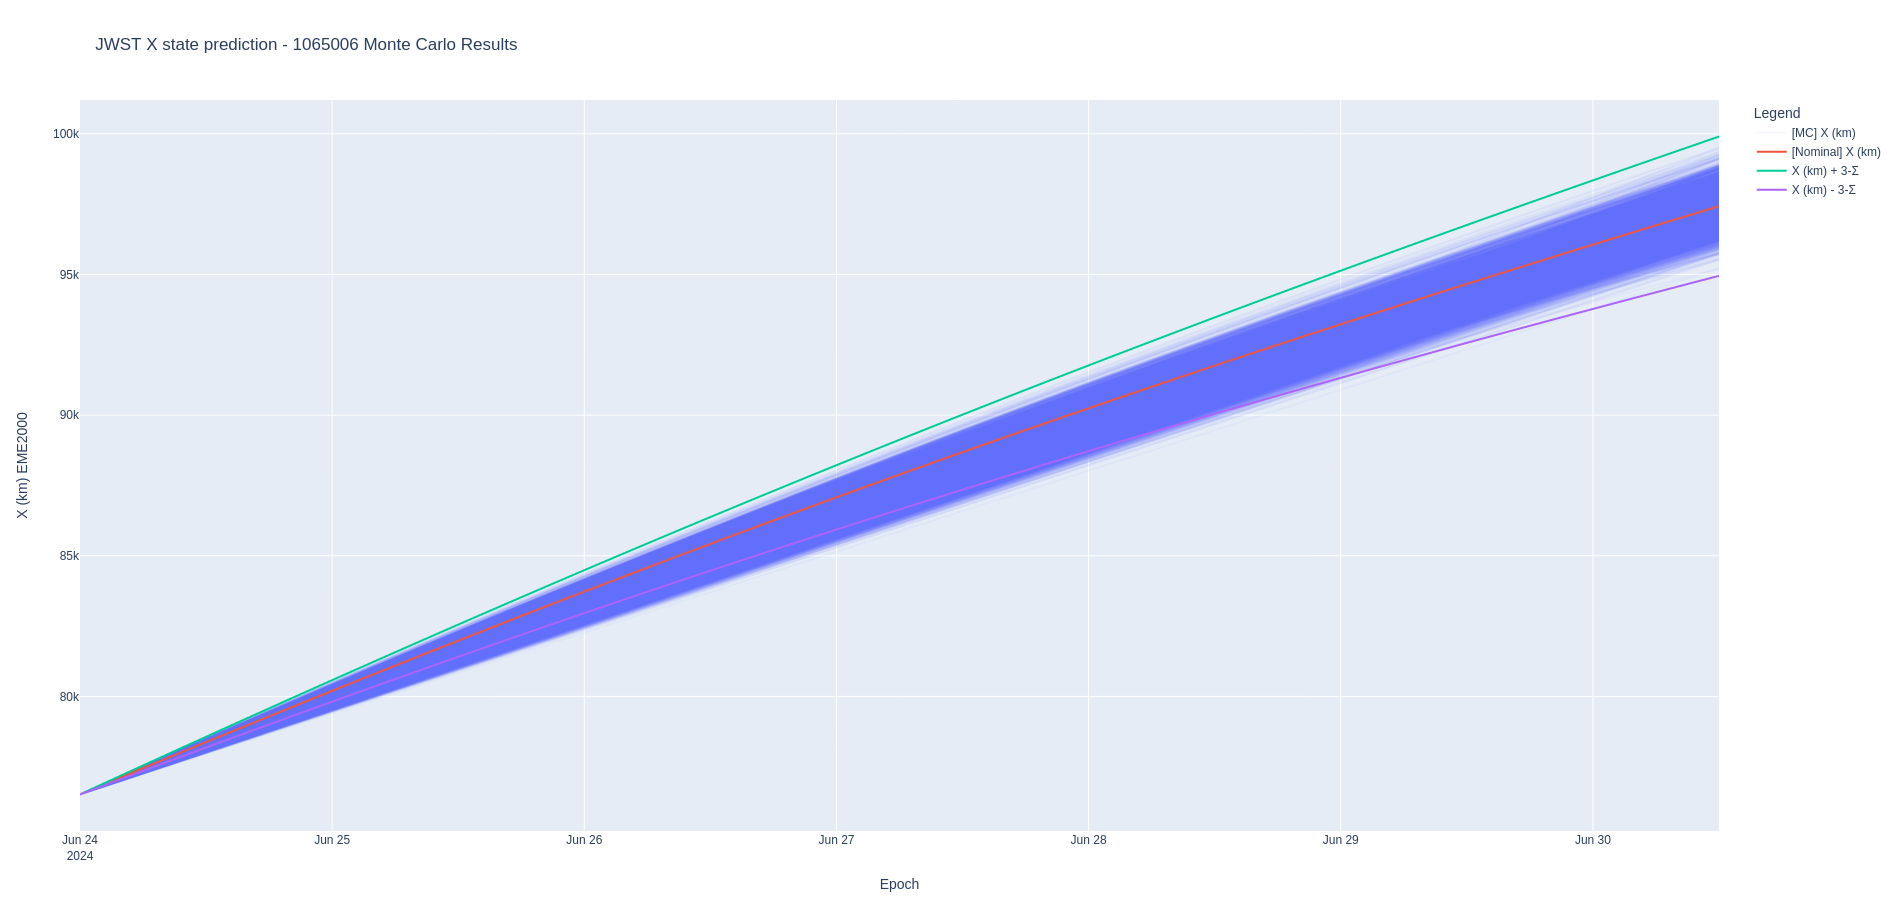
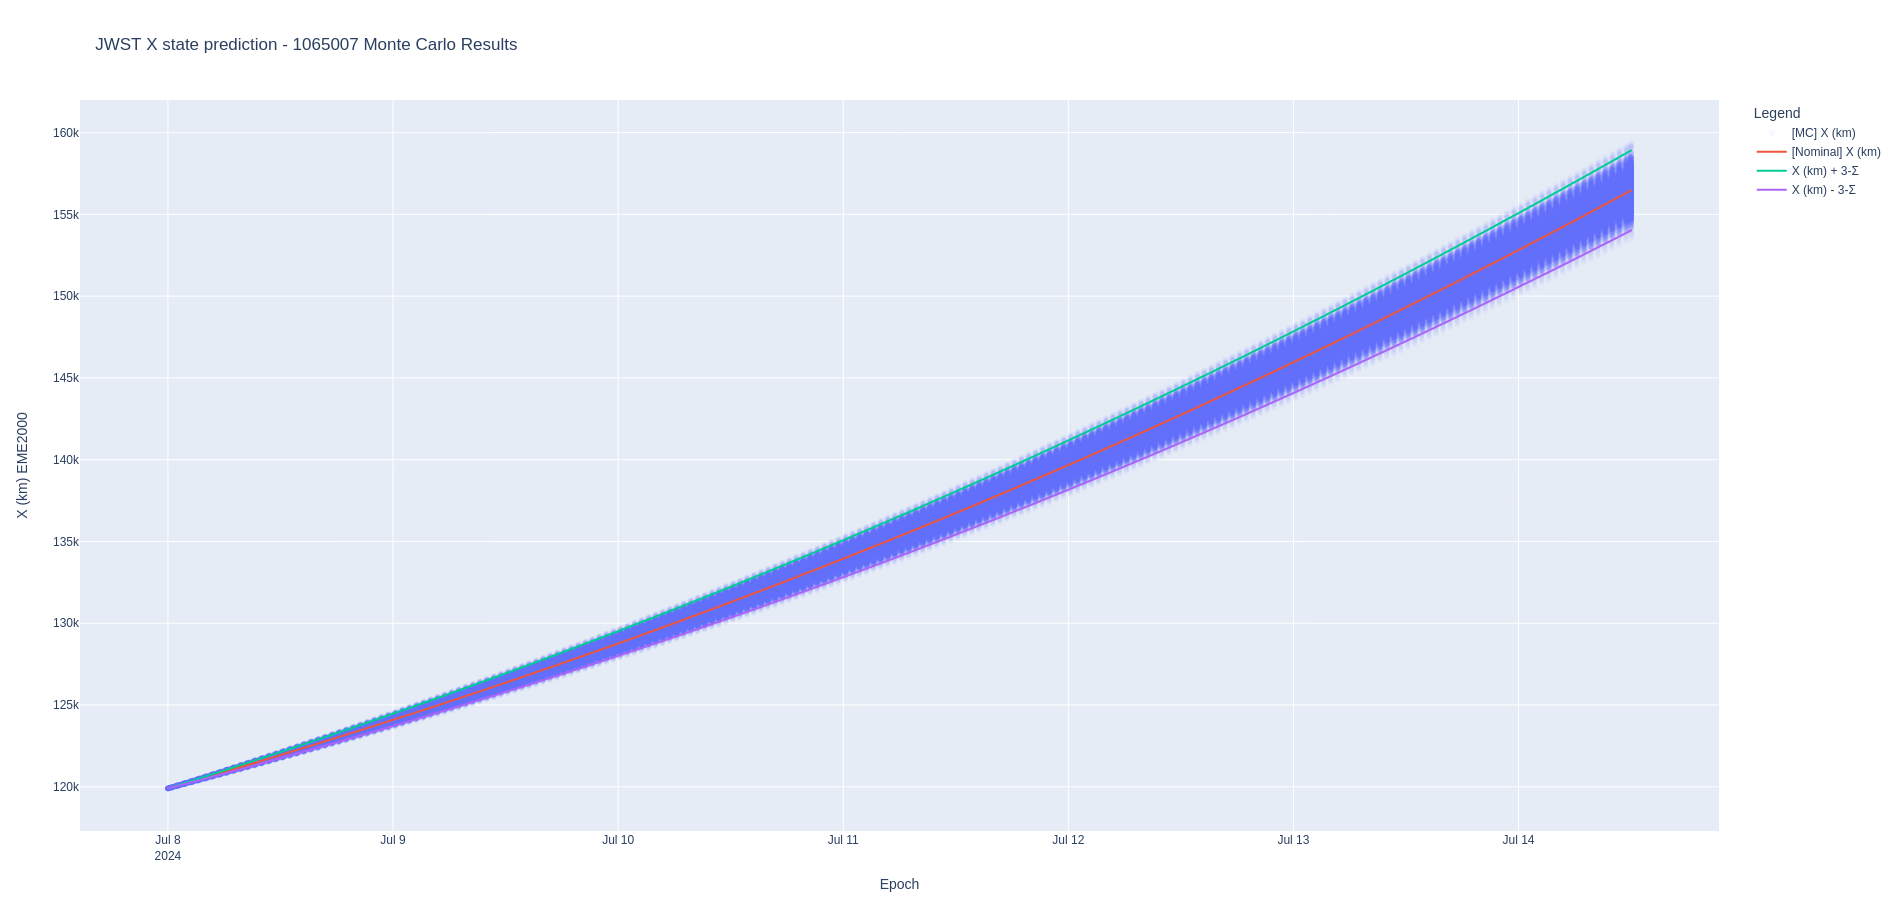
Fix plotting of the JWST example

diff --git a/examples/02_jwst_covar_monte_carlo/plotting.py b/examples/02_jwst_covar_monte_carlo/plotting.py
@@ -3,11 +3,11 @@ import plotly.graph_objs as go
 
 if __name__ == "__main__":
     df_mc = pl.read_parquet("./02_jwst_monte_carlo.parquet")
-    df_mc = df_mc.with_columns(pl.col("Epoch (UTC)").str.to_datetime("%Y-%m-%dT%H:%M:%S%.f"))
+    df_mc = df_mc.with_columns(pl.col("Epoch (UTC)").str.to_datetime("%Y-%m-%dT%H:%M:%S%.f")).sort("Epoch (UTC)", descending=False)
     print(df_mc.describe())
 
     df_covar = pl.read_parquet("./02_jwst_covar_map.parquet")
-    df_covar = df_covar.with_columns(pl.col("Epoch (UTC)").str.to_datetime("%Y-%m-%dT%H:%M:%S%.f"))
+    df_covar = df_covar.with_columns(pl.col("Epoch (UTC)").str.to_datetime("%Y-%m-%dT%H:%M:%S%.f")).sort("Epoch (UTC)", descending=False)
     print(df_covar.describe())
 
     # Build the position plots
@@ -18,7 +18,7 @@ if __name__ == "__main__":
                 go.Scattergl(
                     x=df_mc["Epoch (UTC)"],
                     y=df_mc[col],
-                    mode="lines",
+                    mode="markers",
                     opacity=0.05,
                     showlegend=True,
                     name=f"[MC] {coord} (km)",
@@ -63,7 +63,7 @@ if __name__ == "__main__":
                 go.Scattergl(
                     x=df_mc["Epoch (UTC)"],
                     y=df_mc[col],
-                    mode="lines",
+                    mode="markers",
                     opacity=0.05,
                     showlegend=True,
                     name=f"[MC] {coord} (km/s)",
@@ -156,7 +156,7 @@ if __name__ == "__main__":
                 go.Scattergl(
                     x=df_mc["Epoch (UTC)"],
                     y=df_mc[col],
-                    mode="lines",
+                    mode="markers",
                     opacity=0.05,
                     showlegend=True,
                     name=f"[MC] {col}",

diff --git a/src/mc/multivariate.rs b/src/mc/multivariate.rs
@@ -210,11 +210,11 @@ impl MultivariateNormal {
             return Err(Box::new(NyxError::CovarianceMatrixNotPsd));
         }
 
-        let sqrt_s = svd.singular_values.map(|x| x.sqrt());
-        let mut sqrt_s_v_t = svd.v_t.unwrap();
-
-        for (i, mut col) in sqrt_s_v_t.column_iter_mut().enumerate() {
-            col *= sqrt_s[i];
+        let s = svd.singular_values;
+        // Item by item multiplication
+        let mut sqrt_s_v = svd.v_t.unwrap().transpose();
+        for (i, mut col) in sqrt_s_v.column_iter_mut().enumerate() {
+            col *= s[i].sqrt();
         }
 
         let dispersions = vec![
@@ -260,7 +260,7 @@ impl MultivariateNormal {
             template,
             dispersions,
             mean,
-            sqrt_s_v: sqrt_s_v_t.transpose(),
+            sqrt_s_v,
             std_norm_distr: Normal::new(0.0, 1.0).unwrap(),
         })
     }
@@ -270,7 +270,7 @@ impl Distribution<DispersedState<Spacecraft>> for MultivariateNormal {
     fn sample<R: rand::Rng + ?Sized>(&self, rng: &mut R) -> DispersedState<Spacecraft> {
         // Generate the vector representing the state
         let x_rng = SVector::<f64, 9>::from_fn(|_, _| self.std_norm_distr.sample(rng));
-        let x = self.sqrt_s_v.transpose() * x_rng + self.mean;
+        let x = self.sqrt_s_v * x_rng + self.mean;
         let mut state = self.template;
 
         let mut actual_dispersions = Vec::new();

diff --git a/examples/02_jwst_covar_monte_carlo/README.md b/examples/02_jwst_covar_monte_carlo/README.md
@@ -47,12 +47,12 @@ INFO  anise::almanac                     > Loading almanac from /home/crabotin/.
 INFO  anise::almanac                     > Loading as DAF/PCK
 INFO  anise::almanac                     > Loading almanac from /home/crabotin/.local/share/nyx-space/anise/jwst_rec.bsp
 INFO  anise::almanac                     > Loading as DAF/SPK
-JWST defined from 2024-03-30T22:40:09.185653761 ET to 2024-06-24T00:01:09.184303103 ET
-[Earth J2000] 2024-06-24T00:01:09.184303103 ET	sma = 881064.546158 km	ecc = 0.989962	inc = 42.614418 deg	raan = 37.843422 deg	aop = 62.970831 deg	ta = 180.020951 deg
-total mass = 6200.000 kg @  [Earth J2000] 2024-06-24T00:01:09.184303103 ET	position = [76518.064167, -1396268.919369, -1057612.565026] km	velocity = [0.043331, 0.014876, -0.013649] km/s  Coast
-RIC  Σ_x = 0.5 km  Σ_y = 0.3 km  Σ_z = 1.5 km
-RIC  Σ_vx = 0.0001 km/s  Σ_vy = 0.0006 km/s  Σ_vz = 0.003 km/s
-Σ_cr = 0  Σ_cd = 0  Σ_mass = 0 kg
+JWST defined from 2024-04-13T22:40:09.185630849 ET to 2024-07-08T00:01:09.183912447 ET
+[Earth J2000] 2024-07-08T00:01:09.183912447 ET	sma = 876856.027357 km	ecc = 0.985029	inc = 52.340344 deg	raan = 310.126394 deg	aop = 130.798599 deg	ta = 180.103906 deg
+total mass = 6200.000 kg @  [Earth J2000] 2024-07-08T00:01:09.183912447 ET	position = [119901.070276, -1389299.665421, -1041369.150539] km	velocity = [0.045956, -0.013168, 0.034535] km/s  Coast
+RIC  σ_x = 0.5 km  σ_y = 0.3 km  σ_z = 1.5 km
+RIC  σ_vx = 0.0001 km/s  σ_vy = 0.0006 km/s  σ_vz = 0.003 km/s
+σ_cr = 0  σ_cd = 0  σ_mass = 0 kg
 
 INFO  nyx_space::od::process             > Mapping covariance for 6 days 12 h with 1 min step
 INFO  nyx_space::od::process::export     > Exporting orbit determination result to parquet file...
@@ -65,9 +65,11 @@ INFO  nyx_space::mc::results             > Evaluating 2 event(s)
 INFO  nyx_space::mc::results             > Trajectory written to 02_jwst_monte_carlo.parquet in 41 s 603 ms 696 μs 128 ns
 ```
 
+We then run `╰─(.venv) ⠠⠵ ipython examples/02_jwst_covar_monte_carlo/plotting.py` from the virtual environment, whose requirements are in the [requirements.txt](./requirements.txt)
+
 ## Analysis
 
-Overall, we can confirm that the 3-sigma covariance is a good approximation of the uncertainty. Notably, however, there are some dispersed trajectories whose Keplerian orbital elements are outside of the 3-sigma bound. This is probably due to the fact that Keplerian orbital elements are defined for orbits where there is a central body, but the James Webb Space Telescope is in a three body orbit, since it's near a Lagrange point.
+Overall, we can confirm that the 3-sigma covariance is a good approximation of the uncertainty. Notably, all of the dispersed trajectories fit (nearly) within the 3-σ bounds in the state space and in the Keplerian orbital element space. The rotation from the Keplerioan orbital element space into the Cartesian space is done by building the Jacobian from the desired Keplerian elements into the Cartesian space using hyperdual numbers (also called "automatic differentiation" in the machine learning world). This ensure that we don't lose any precision in the state space change, and that's shown to be the case in these plots.
 
 ### State uncertainties
 
@@ -82,6 +84,12 @@ As expected from any orbit determination software, Nyx can output uncertainties 
 ![JWST MC Y (km)](./plots/jwst_mc_Y_km.png)
 
 ![JWST MC Z (km)](./plots/jwst_mc_Z_km.png)
+
+![JWST MC VX (km/s)](./plots/jwst_mc_VX_km_s.png)
+
+![JWST MC VY (km/s)](./plots/jwst_mc_VY_km_s.png)
+
+![JWST MC VZ (km/s)](./plots/jwst_mc_VZ_km_s.png)
 
 ### Keplerian uncertainties
 
